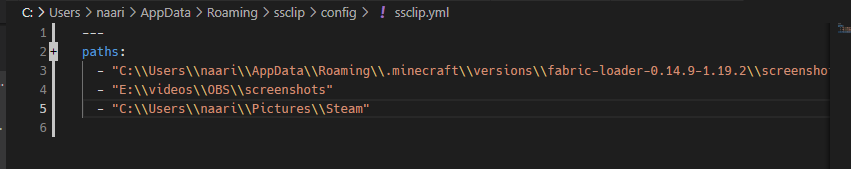
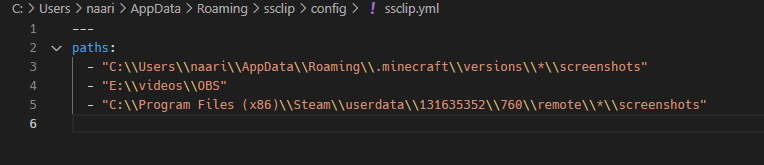
chore: update documentation

Changed region(s): [[0.0, 0.0, 0.9935, 1.0], [0.9634, 0.1515, 1.0, 0.2121]]

diff --git a/README.md b/README.md
@@ -4,6 +4,11 @@ Tool for Windows to copy screenshots to the clipboard
 
 ![Config file image](screenshots/configfile.png)
 
+## Feature
+
+- Monitoring specific directory paths to get screenshots creation event, and Copy to the clipboard
+- Supports glob (`?`, `*`, `**`, `[...]`, `[!...]`, etc...) patterns
+
 ## How to use
 
 1. Download binary from [GitHub Releases](https://github.com/naari3/ssclip/releases)
